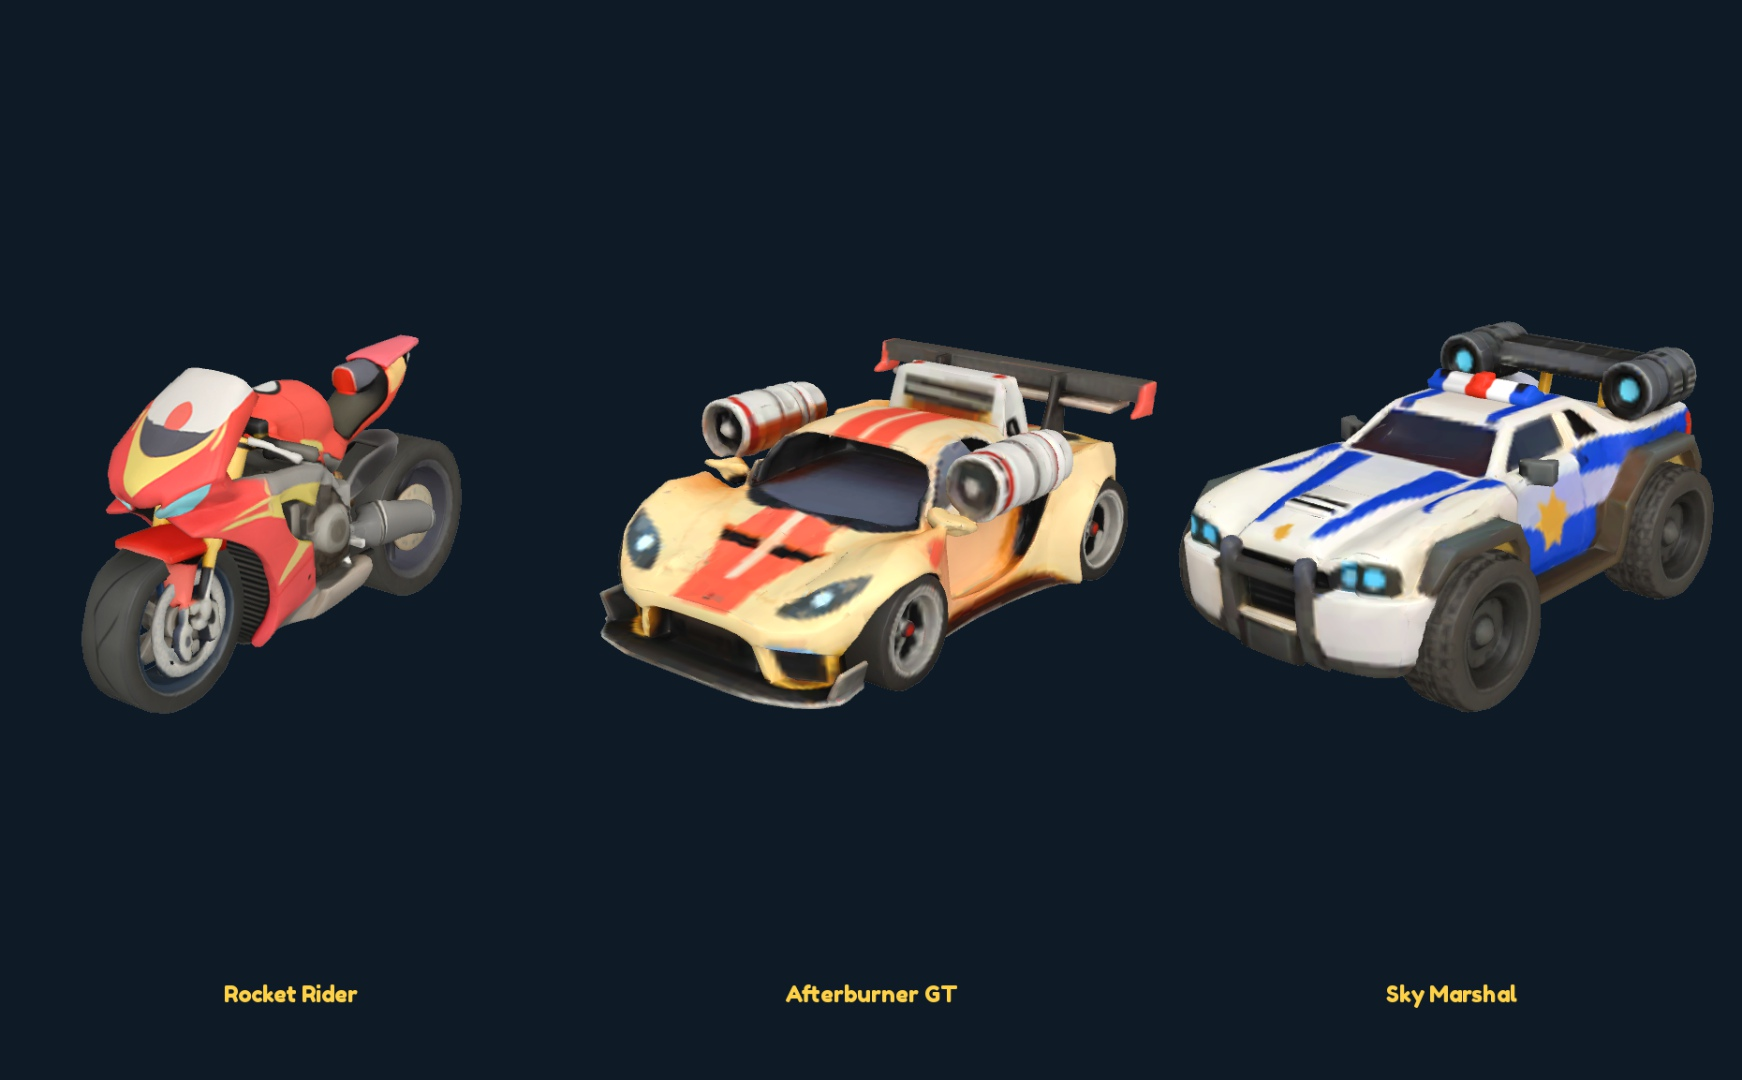
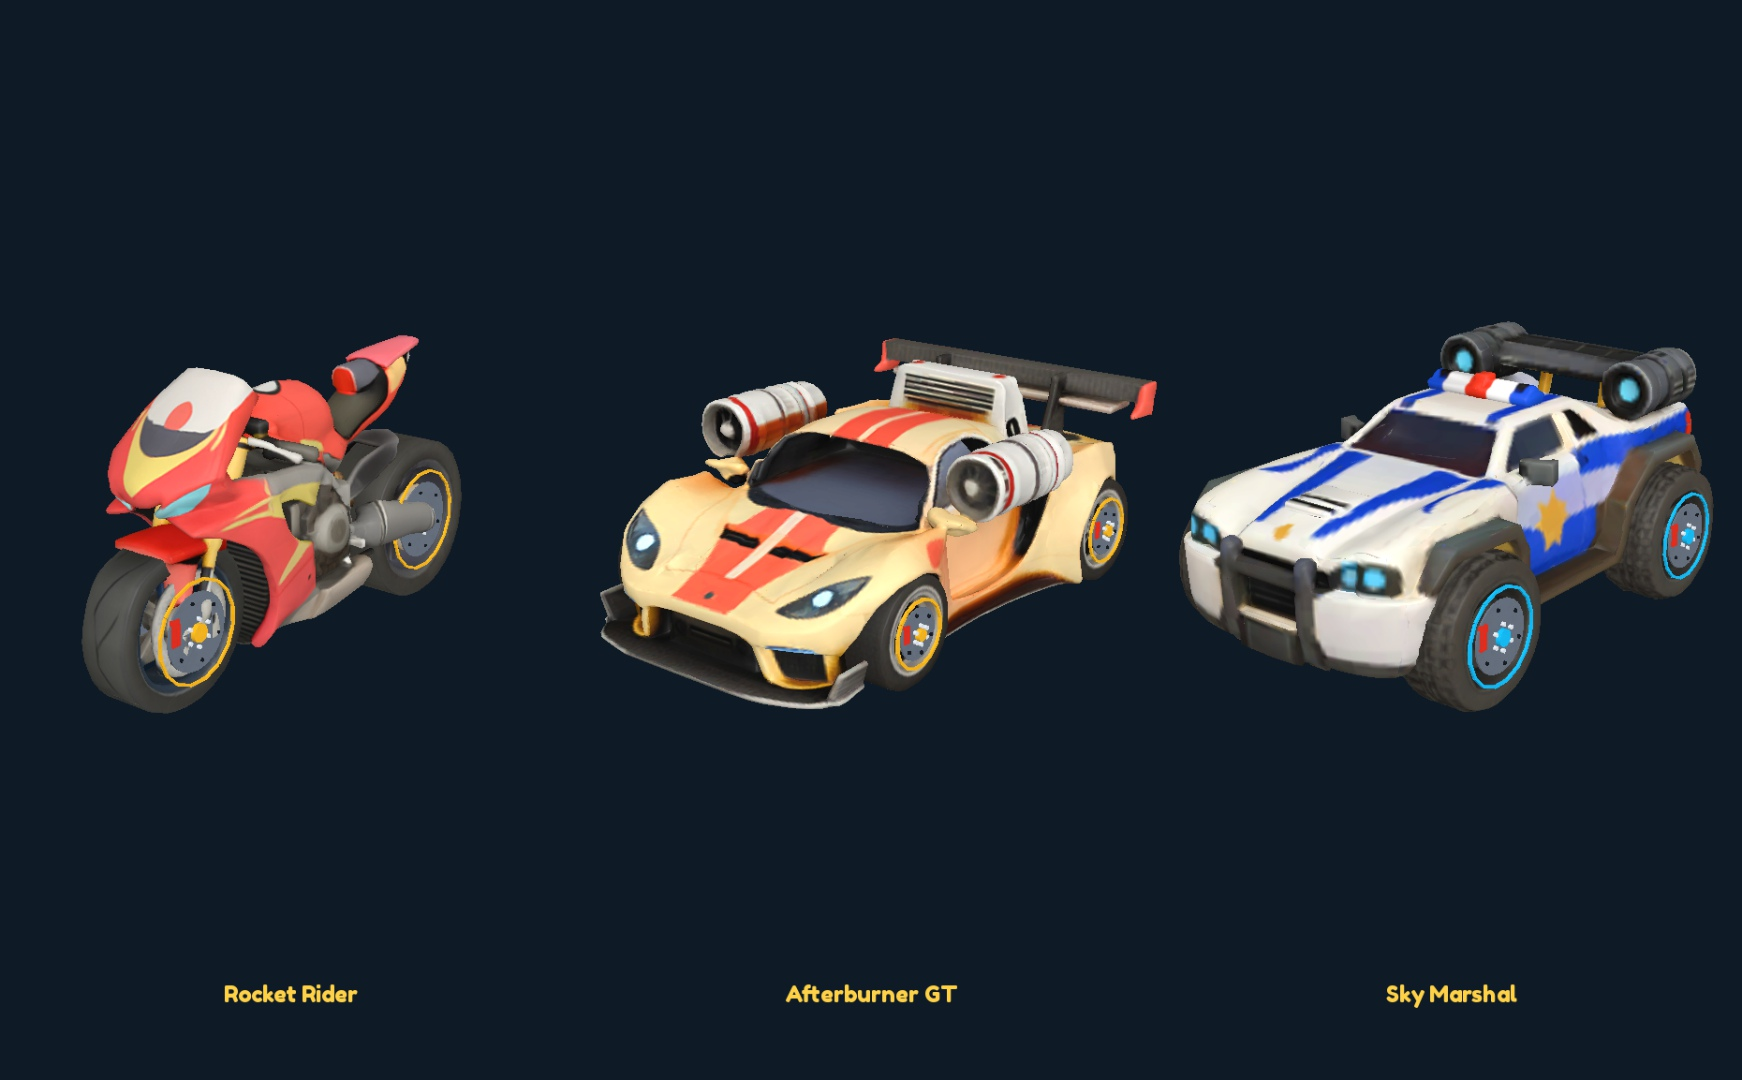
Brighten Legendary vehicle finishes and add wheel hardware

diff --git a/assets/legendary-redesign/README.md b/assets/legendary-redesign/README.md
@@ -6,13 +6,17 @@ Replaces the three add-on-style jet vehicles with bespoke sculpted vehicles. Rec
 - Afterburner GT: Muscle Car + Jet Engine. Low widebody fastback, rear-quarter turbine nacelles, sculpted intakes, orange/gold body and carbon aero.
 - Sky Marshal: Cop Cruiser + Jet Engine. Armored pursuit interceptor, integrated rear turbine pods, police lights, black/ivory/cobalt bodywork.
 
-The earlier procedural versions remain backed up under `assets/legendary-jets` and in Studio ServerStorage. These replacements are installed with revision `LegendaryFullBody_20260923_v3`. Roblox publishing is separate.
+The earlier procedural versions remain backed up under `assets/legendary-jets` and in Studio ServerStorage. The approved bodies now have the brightness/detail pass `LegendaryFullBody_20260923_v4` installed. Roblox publishing is separate.
 
 ## Recovery
 
 `models.json` records every mesh/texture ID, size, transform, material, color and gameplay attribute. `restore.luau` embeds the same manifest and rebuilds all three models into `ServerStorage.LegendaryFullBodyRestore` in Edit mode. It does not replace any existing templates. Mesh and texture permissions are required; GitHub stores references, not the binary geometry/texture files hosted by Roblox.
 
 After reviewing restored models, preserve existing same-named templates in a ServerStorage backup folder, then move the replacements into `ReplicatedStorage.ItemModels`. Save the place and publish separately when ready. Rojo script sync alone does not restore these assets.
+
+To reproduce the current v4 finish, run `polish.luau` after installing the restored v3 models. It validates all three source revisions, stages the finish changes, then backs up originals before replacement. It removes the gray mesh tint (sets white so the painted texture keeps its original colors) and adds gold/cyan rim trim, brake rotors, drilling details, red calipers, hubs and individual wheel lugs. The approved mesh shapes and asset IDs are unchanged. Current counts: 129/129/130 BaseParts. `models.json` and `restore.luau` deliberately retain the reproducible v3 baseline; `polish.luau` is the second recovery step.
+
+V4 was checked in fresh Play: all 16 mesh assets preloaded successfully; viewport rendering, welded movement/rotation, resizing, mutation tint and fade passed. Output showed no errors. Current `preview.png` shows the v4 result. Mobile performance remains untested.
 
 ## Verification
 
